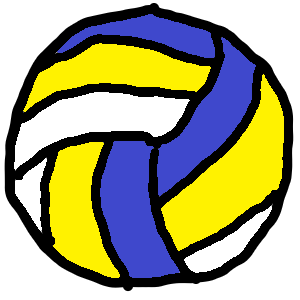
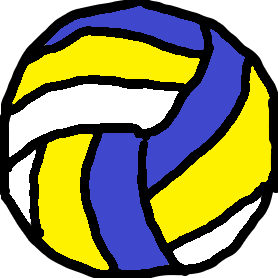
バレーボールくん

diff --git a/scene/help_scene.js b/scene/help_scene.js
@@ -4,7 +4,7 @@ class HelpScene extends Scene {
     #canvas = null;
     #context = null;
     #uekibatiLImage = null;
-    #hananasiUekibatiLImage = null;
+    #ballImage = null;
 
     async onStart() {
         this.#controlsDescriptionDom = document.querySelector("#controls-description");
@@ -14,7 +14,7 @@ class HelpScene extends Scene {
         this.#controlsDescriptionDom.innerText = "↑↓:カーソル移動 X:決定 Z:戻る";
 
         this.#uekibatiLImage = await loadImage("assets/植木鉢くんL.png");
-        this.#hananasiUekibatiLImage = await loadImage("assets/花無し植木鉢くんL.png");
+        this.#ballImage = await loadImage("assets/バレーボールくん.png");
 
         this.#update();
     }
@@ -35,17 +35,18 @@ class HelpScene extends Scene {
         this.#context.rect(0, this.#canvas.height * 3/3 - lineHeight, this.#canvas.width, lineHeight);
         this.#context.fill();
 
-        const imageHeight = (this.#canvas.height * 1/3 - lineHeight) * 0.7;
-        const imageWidth = this.#uekibatiRImage.naturalWidth / this.#uekibatiRImage.naturalHeight * imageHeight;
+        const uekbtHeight = (this.#canvas.height * 1/3 - lineHeight) * 0.7;
+        const uekbtWidth = this.#uekibatiLImage.naturalWidth / this.#uekibatiLImage.naturalHeight * uekbtHeight;
+        const ballWidth = uekbtHeight, ballHeight = uekbtHeight;
         const imageMarginX = 50;
-        const imageMarginY = this.#canvas.height * 1/3 - lineHeight - imageHeight;
-        const leftImageX = this.#canvas.width - imageWidth - imageMarginX;
-        this.#context.drawImage(this.#uekibatiRImage, imageMarginX, imageMarginY, imageWidth, imageHeight);
-        this.#context.drawImage(this.#hananasiUekibatiRImage, imageMarginX, this.#canvas.height * 1/3 + imageMarginY, imageWidth, imageHeight);
-        this.#context.drawImage(this.#hananasiUekibatiRImage, imageMarginX, this.#canvas.height * 2/3 + imageMarginY, imageWidth, imageHeight);
-        this.#context.drawImage(this.#uekibatiLImage, leftImageX, imageMarginY, imageWidth, imageHeight);
-        this.#context.drawImage(this.#hananasiUekibatiLImage, leftImageX, this.#canvas.height * 1/3 + imageMarginY, imageWidth, imageHeight);
-        this.#context.drawImage(this.#hananasiUekibatiLImage, leftImageX, this.#canvas.height * 2/3 + imageMarginY, imageWidth, imageHeight);
+        const imageMarginY = this.#canvas.height * 1/3 - lineHeight - uekbtHeight;
+        const leftImageX = this.#canvas.width - uekbtWidth - imageMarginX;
+        this.#context.drawImage(this.#ballImage, imageMarginX, imageMarginY, ballWidth, ballHeight);
+        // this.#context.drawImage(this.#hananasiUekibatiRImage, imageMarginX, this.#canvas.height * 1/3 + imageMarginY, uekbtWidth, uekbtHeight);
+        // this.#context.drawImage(this.#hananasiUekibatiRImage, imageMarginX, this.#canvas.height * 2/3 + imageMarginY, uekbtWidth, uekbtHeight);
+        this.#context.drawImage(this.#uekibatiLImage, leftImageX, imageMarginY, uekbtWidth, uekbtHeight);
+        this.#context.drawImage(this.#uekibatiLImage, leftImageX, this.#canvas.height * 1/3 + imageMarginY, uekbtWidth, uekbtHeight);
+        this.#context.drawImage(this.#uekibatiLImage, leftImageX, this.#canvas.height * 2/3 + imageMarginY, uekbtWidth, uekbtHeight);
 
         this.#context.font = "20px sans-serif";
         this.#context.fillStyle = "#000000";
